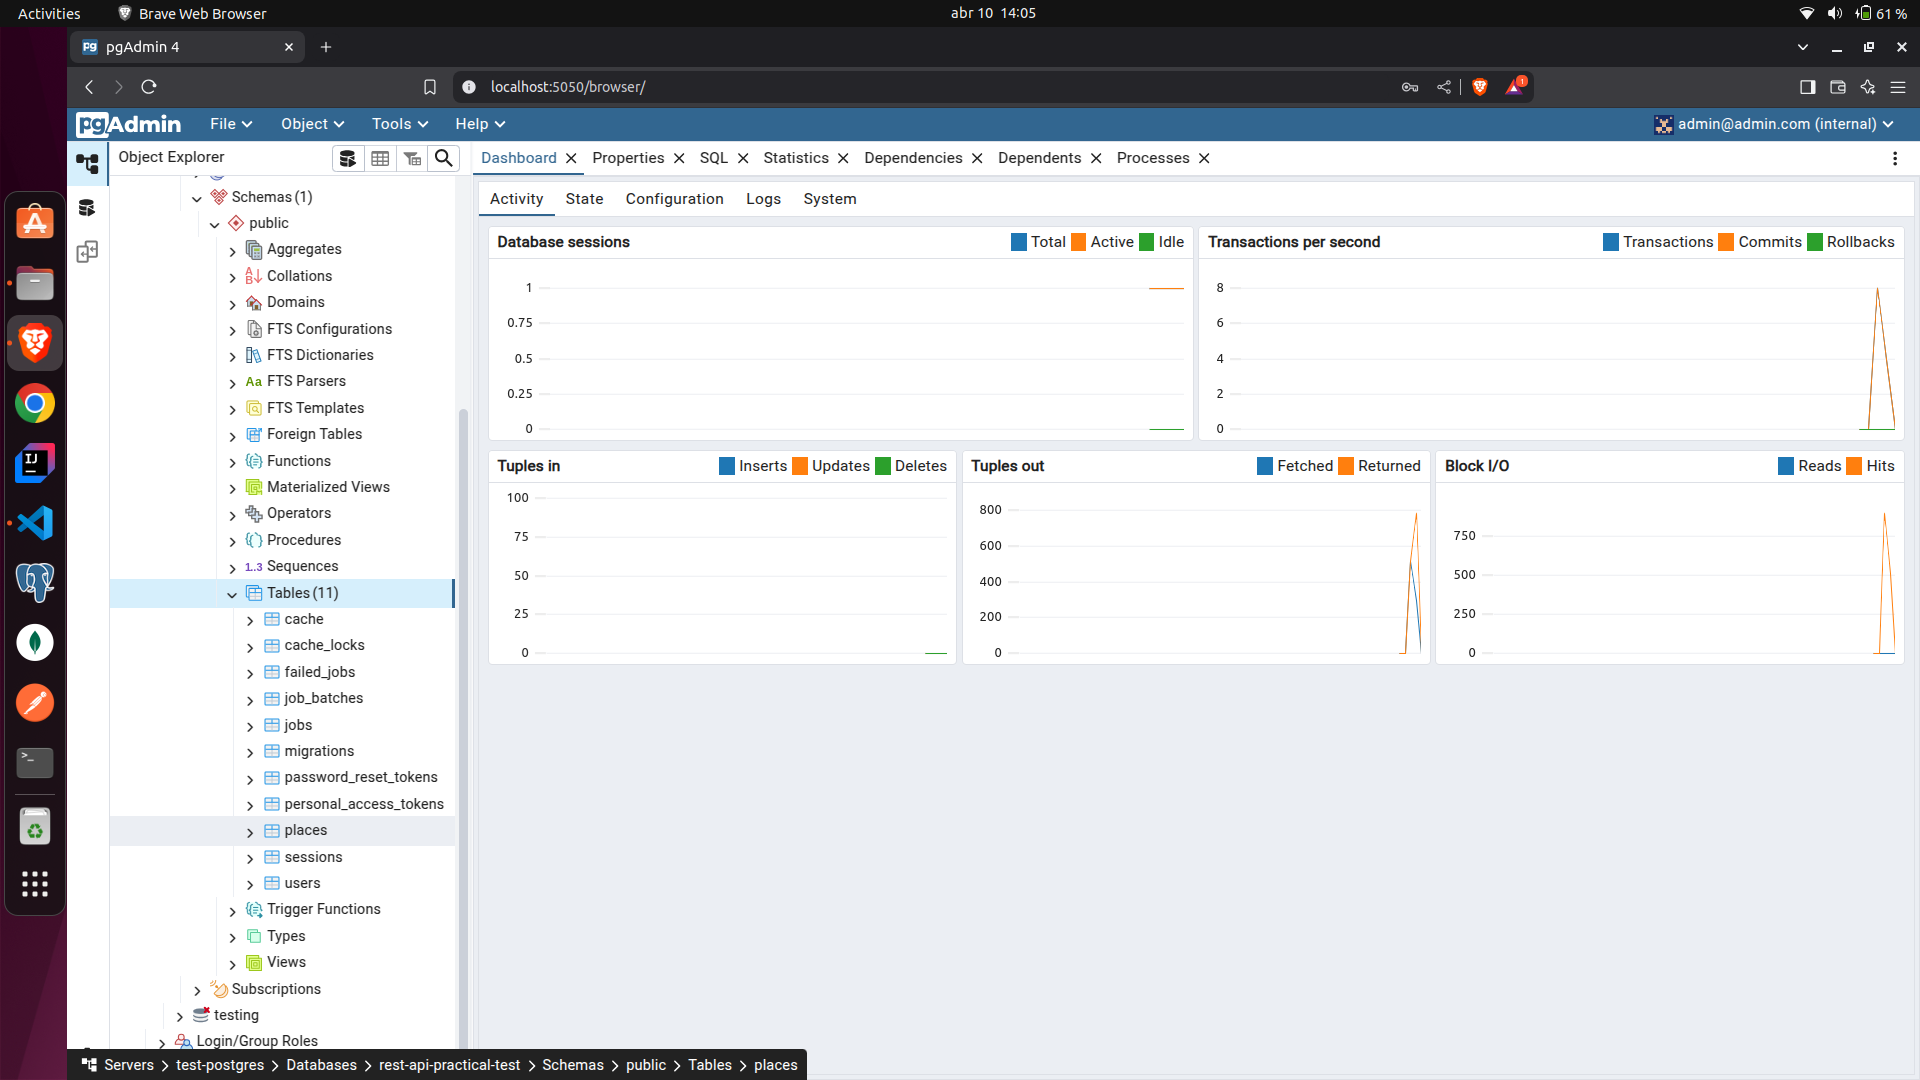
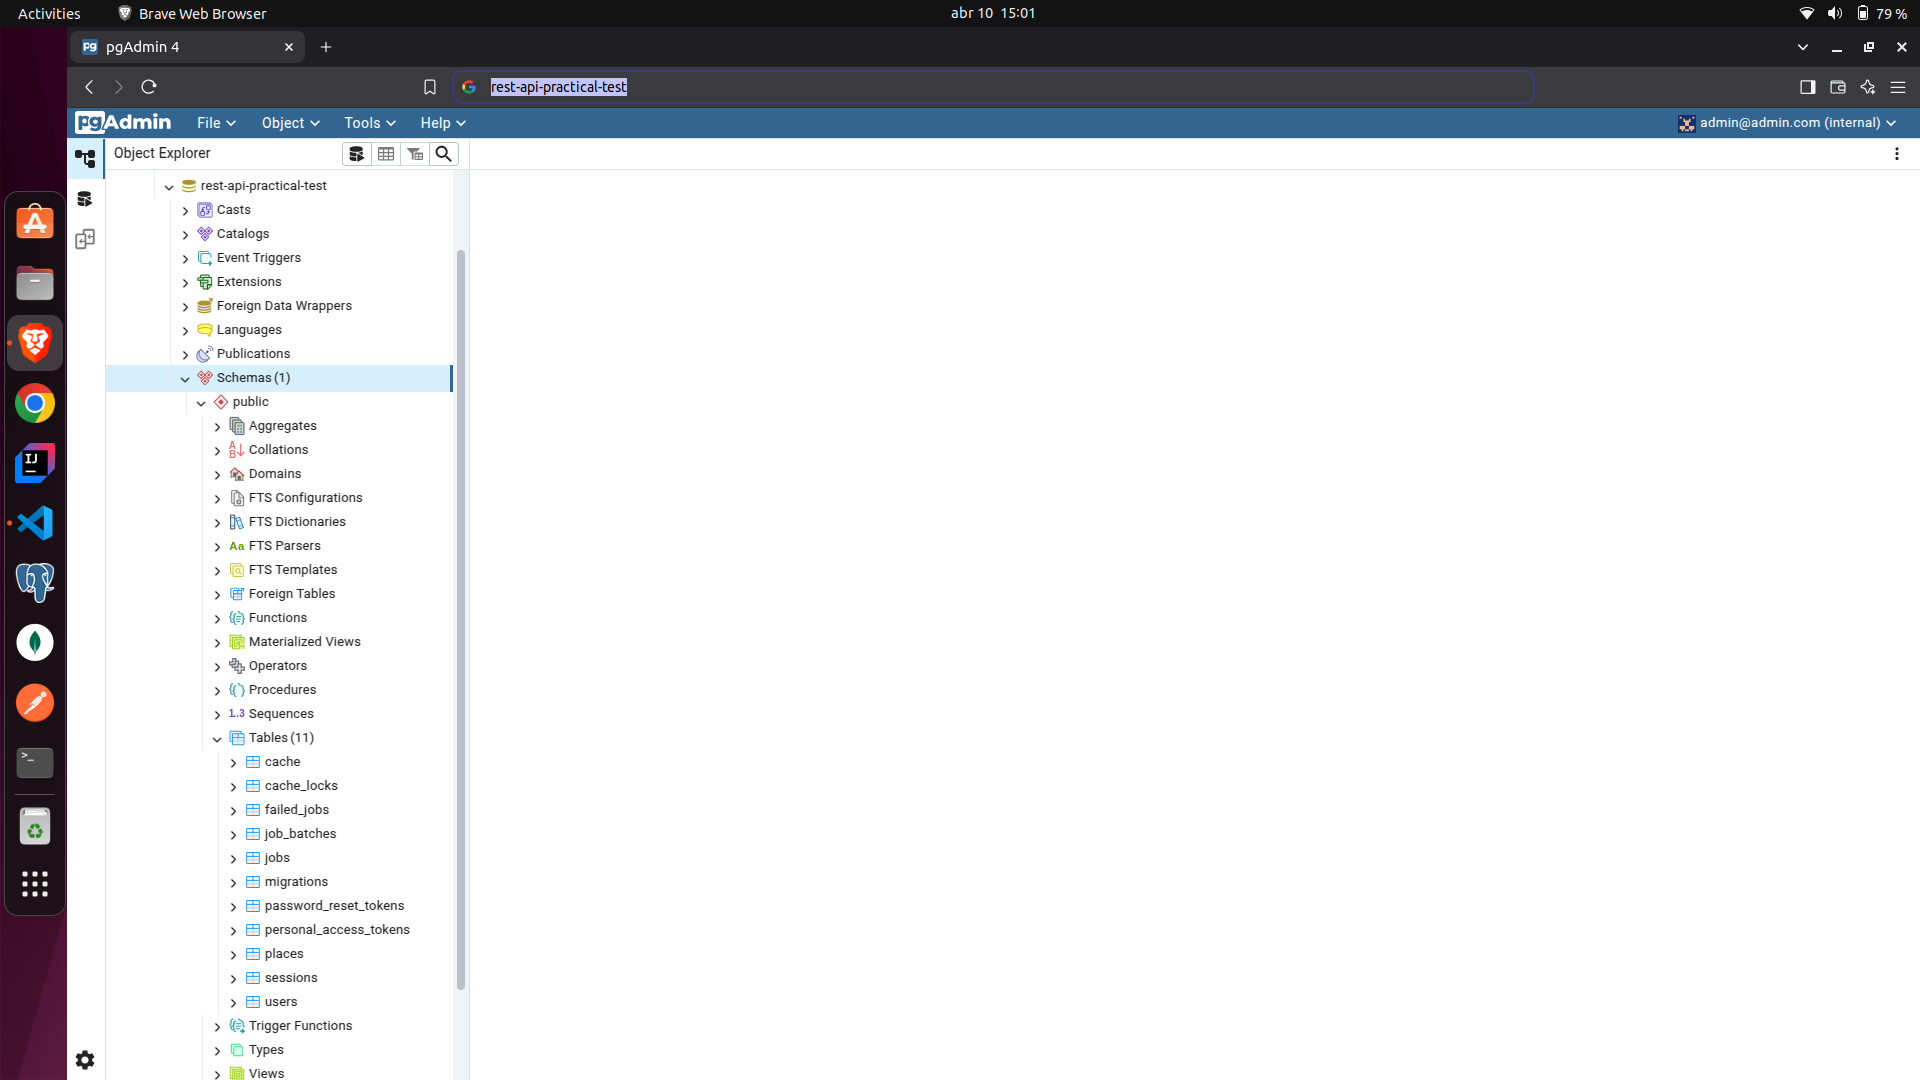
Refactor: Changes to README.md

diff --git a/README.md b/README.md
@@ -179,7 +179,7 @@ Case you don't run the seeders the endpoint response will be:
 // JSON Content
 {
     "name": "Gold Saucer",
-    "city": "Final Fantasy VII Rebirth", // CHanging Final Fantasy VII to Final Fantasy VII Rebirth
+    "city": "Final Fantasy VII Rebirth", // Final Fantasy VII to Final Fantasy VII Rebirth
     "state": "Square Enix"
 }
 
@@ -234,14 +234,65 @@ Step N°1 - In ```.env``` file set the following snippet to connect the applicat
 http://localhost:5050
 ```
 
+You will see:
+
+![](https://raw.githubusercontent.com/CryptedSnow/rest-api-practical-test/refs/heads/main/public/images/01.png)
+
+Login:
 ```
 email: admin@admin.com
 password: admin
 ```
 
+4 - Using the correct credentials, the dashboard is available.
+
+![](https://raw.githubusercontent.com/CryptedSnow/rest-api-practical-test/refs/heads/main/public/images/02.png)
+
+5 - ```Servers -> Register -> Server```
+
+![](https://raw.githubusercontent.com/CryptedSnow/rest-api-practical-test/refs/heads/main/public/images/03.png)
+
+6 - About the ```Name``` field on ```General``` tab, you can choice whatever name (except ```localhost```), in my example I will use ```test-postgres```.
+
+![](https://raw.githubusercontent.com/CryptedSnow/rest-api-practical-test/refs/heads/main/public/images/04.png)
+
+7 - On ```Connection``` tab, you need set values on following fields
+- Host name/address: ```pgsql```
+- Port: ```5432```
+- Maintenance database: ```postgres```
+- Username: ```postgres```
+- Password: ```secret```
+
+Finally, ckick on ```Save``` button.
+
+![](https://raw.githubusercontent.com/CryptedSnow/rest-api-practical-test/refs/heads/main/public/images/05.png)
+
+8 - The ```test-postgres``` server has been created.
+
+![](https://raw.githubusercontent.com/CryptedSnow/rest-api-practical-test/refs/heads/main/public/images/06.png)
+
+9 - ```test-postgres -> Database -> rest-api-practical-test```
+
+![](https://raw.githubusercontent.com/CryptedSnow/rest-api-practical-test/refs/heads/main/public/images/07.png)
+
+10 - ```rest-api-practical-test -> Schemas -> public -> Tables -> places```
+
+![](https://raw.githubusercontent.com/CryptedSnow/rest-api-practical-test/refs/heads/main/public/images/08.png)
+
+11 - ```View/Edit Data -> All Rows```
+
+![](https://raw.githubusercontent.com/CryptedSnow/rest-api-practical-test/refs/heads/main/public/images/09.png)
+
+12 - There are register in ```places``` table to populate the endpoint tests.
+
+![](https://raw.githubusercontent.com/CryptedSnow/rest-api-practical-test/refs/heads/main/public/images/10.png)
+
+13 - If you have doubt about the working of Laravel from service Docker, you can access:
+
+```
+http://localhost:8080
+```
+
 You will see:
 
-4 - Using the correct credentials, the dashboard is available
-
-
-5 - 
+![](https://raw.githubusercontent.com/CryptedSnow/rest-api-practical-test/refs/heads/main/public/images/11.png)
